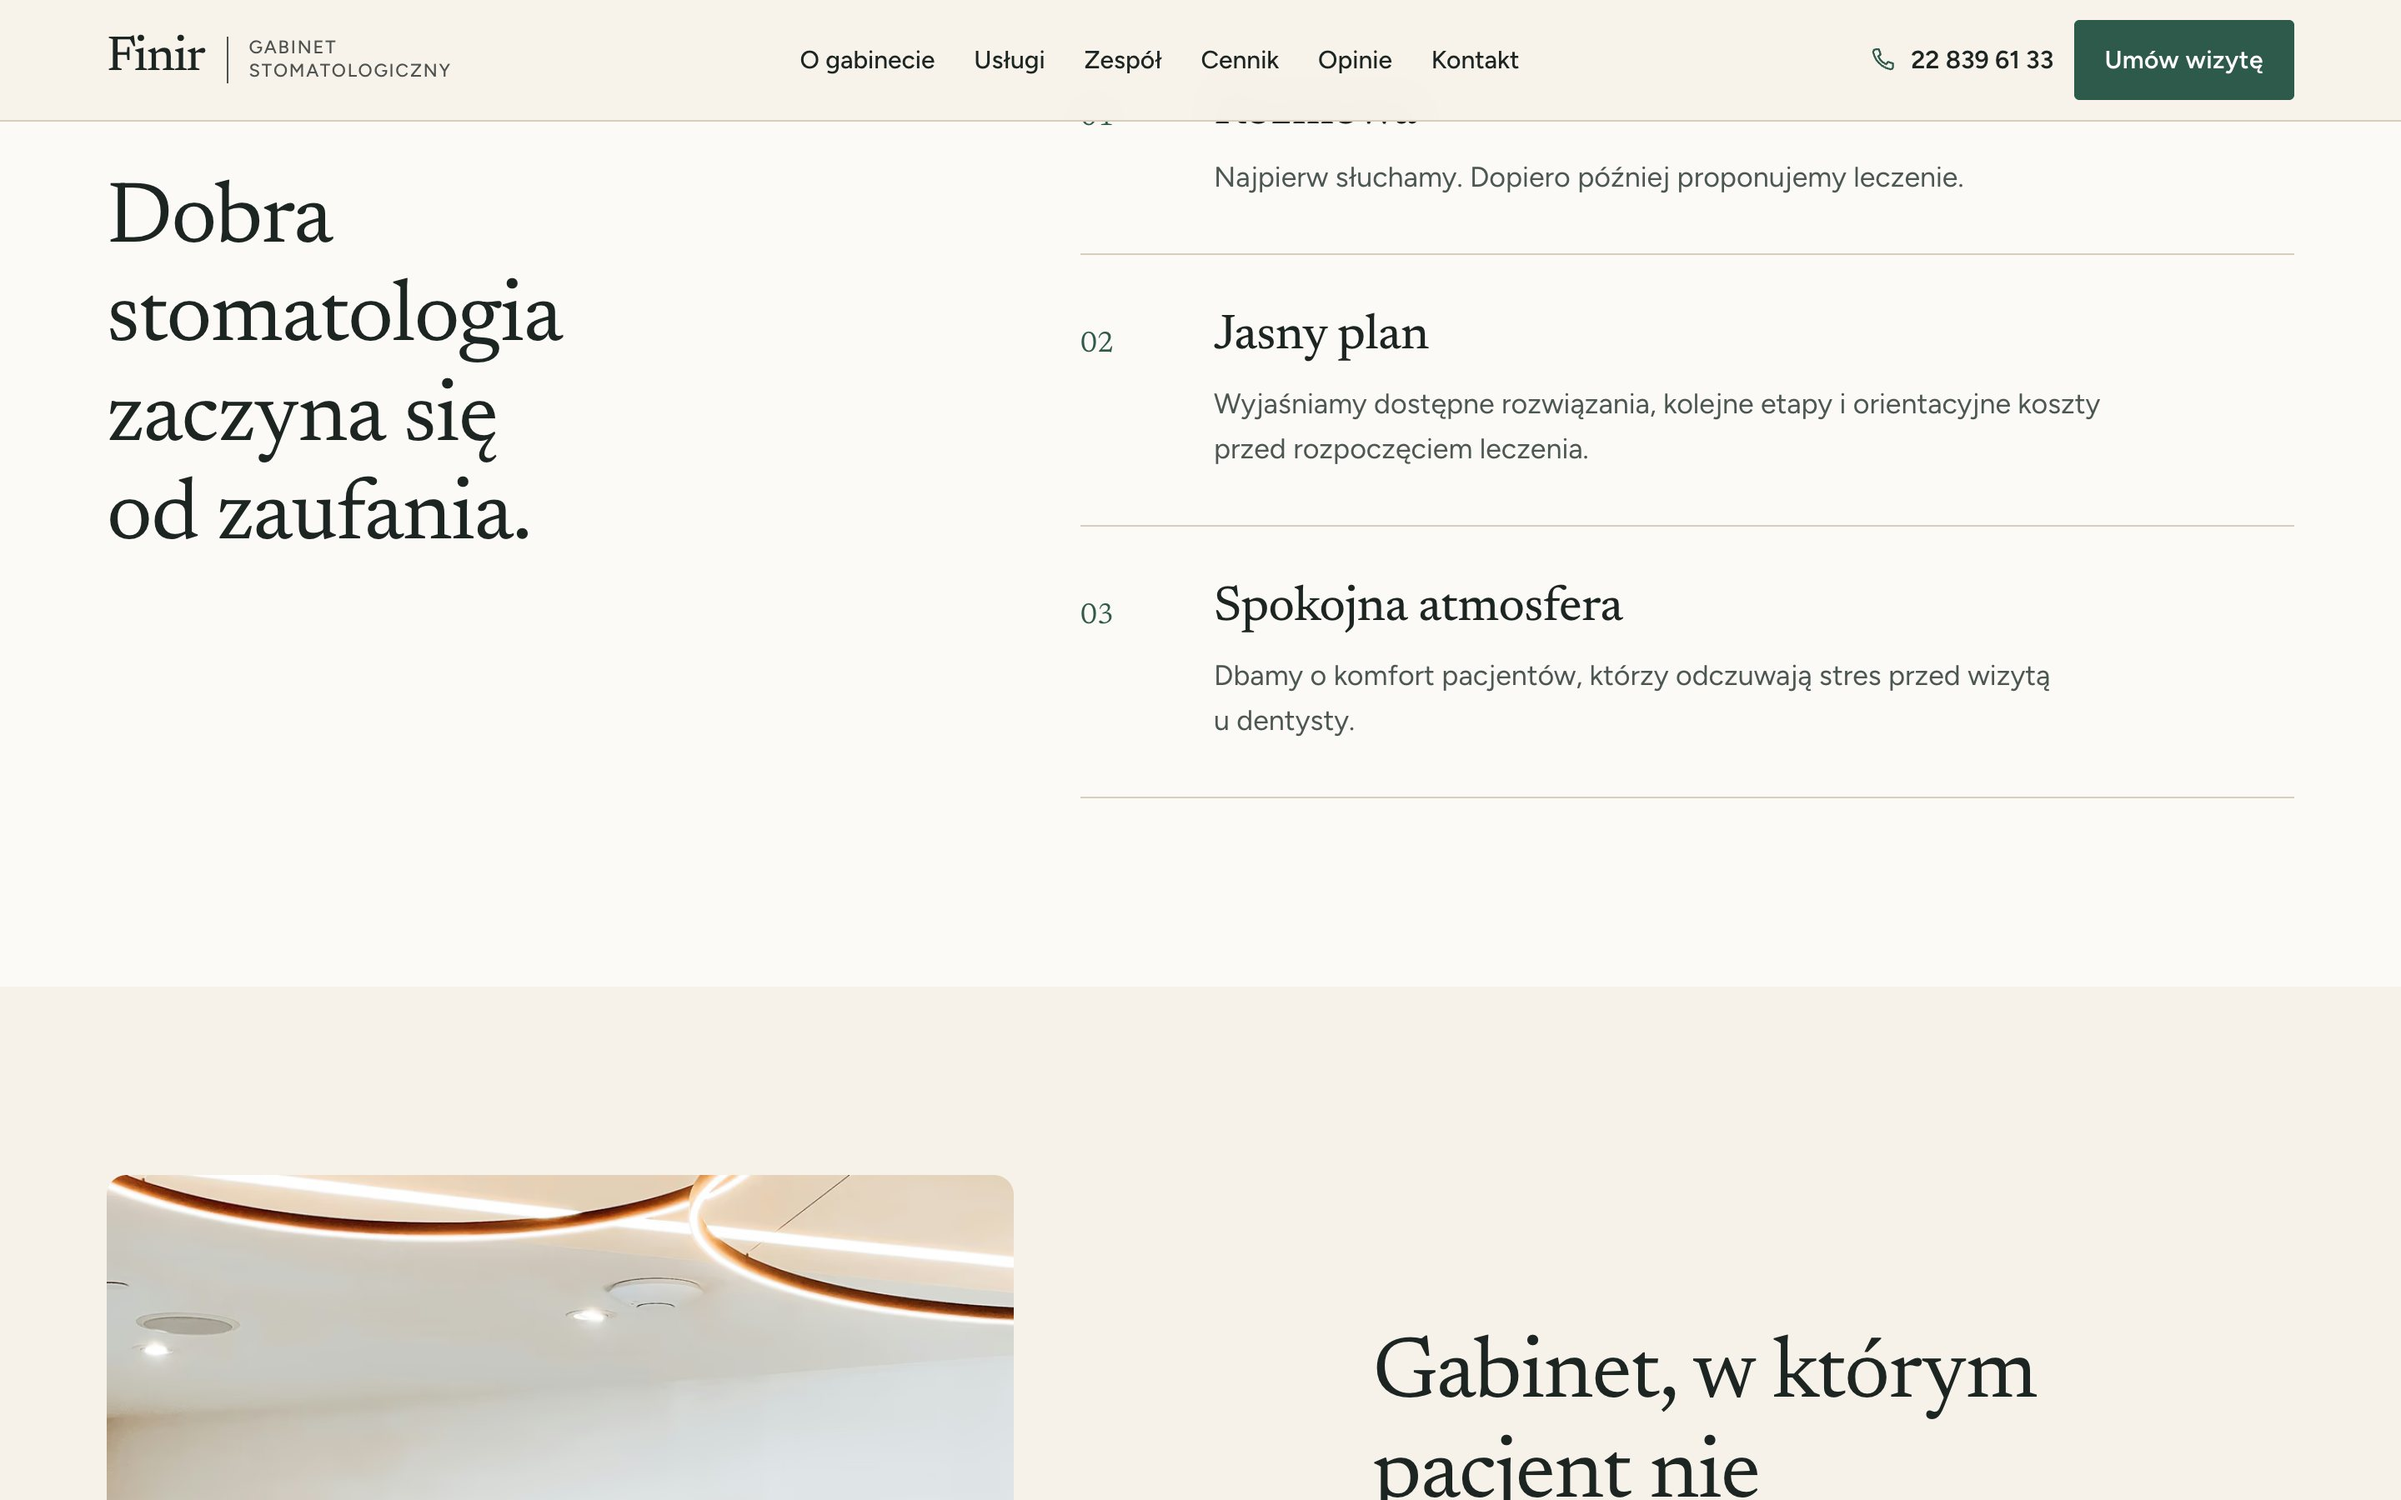
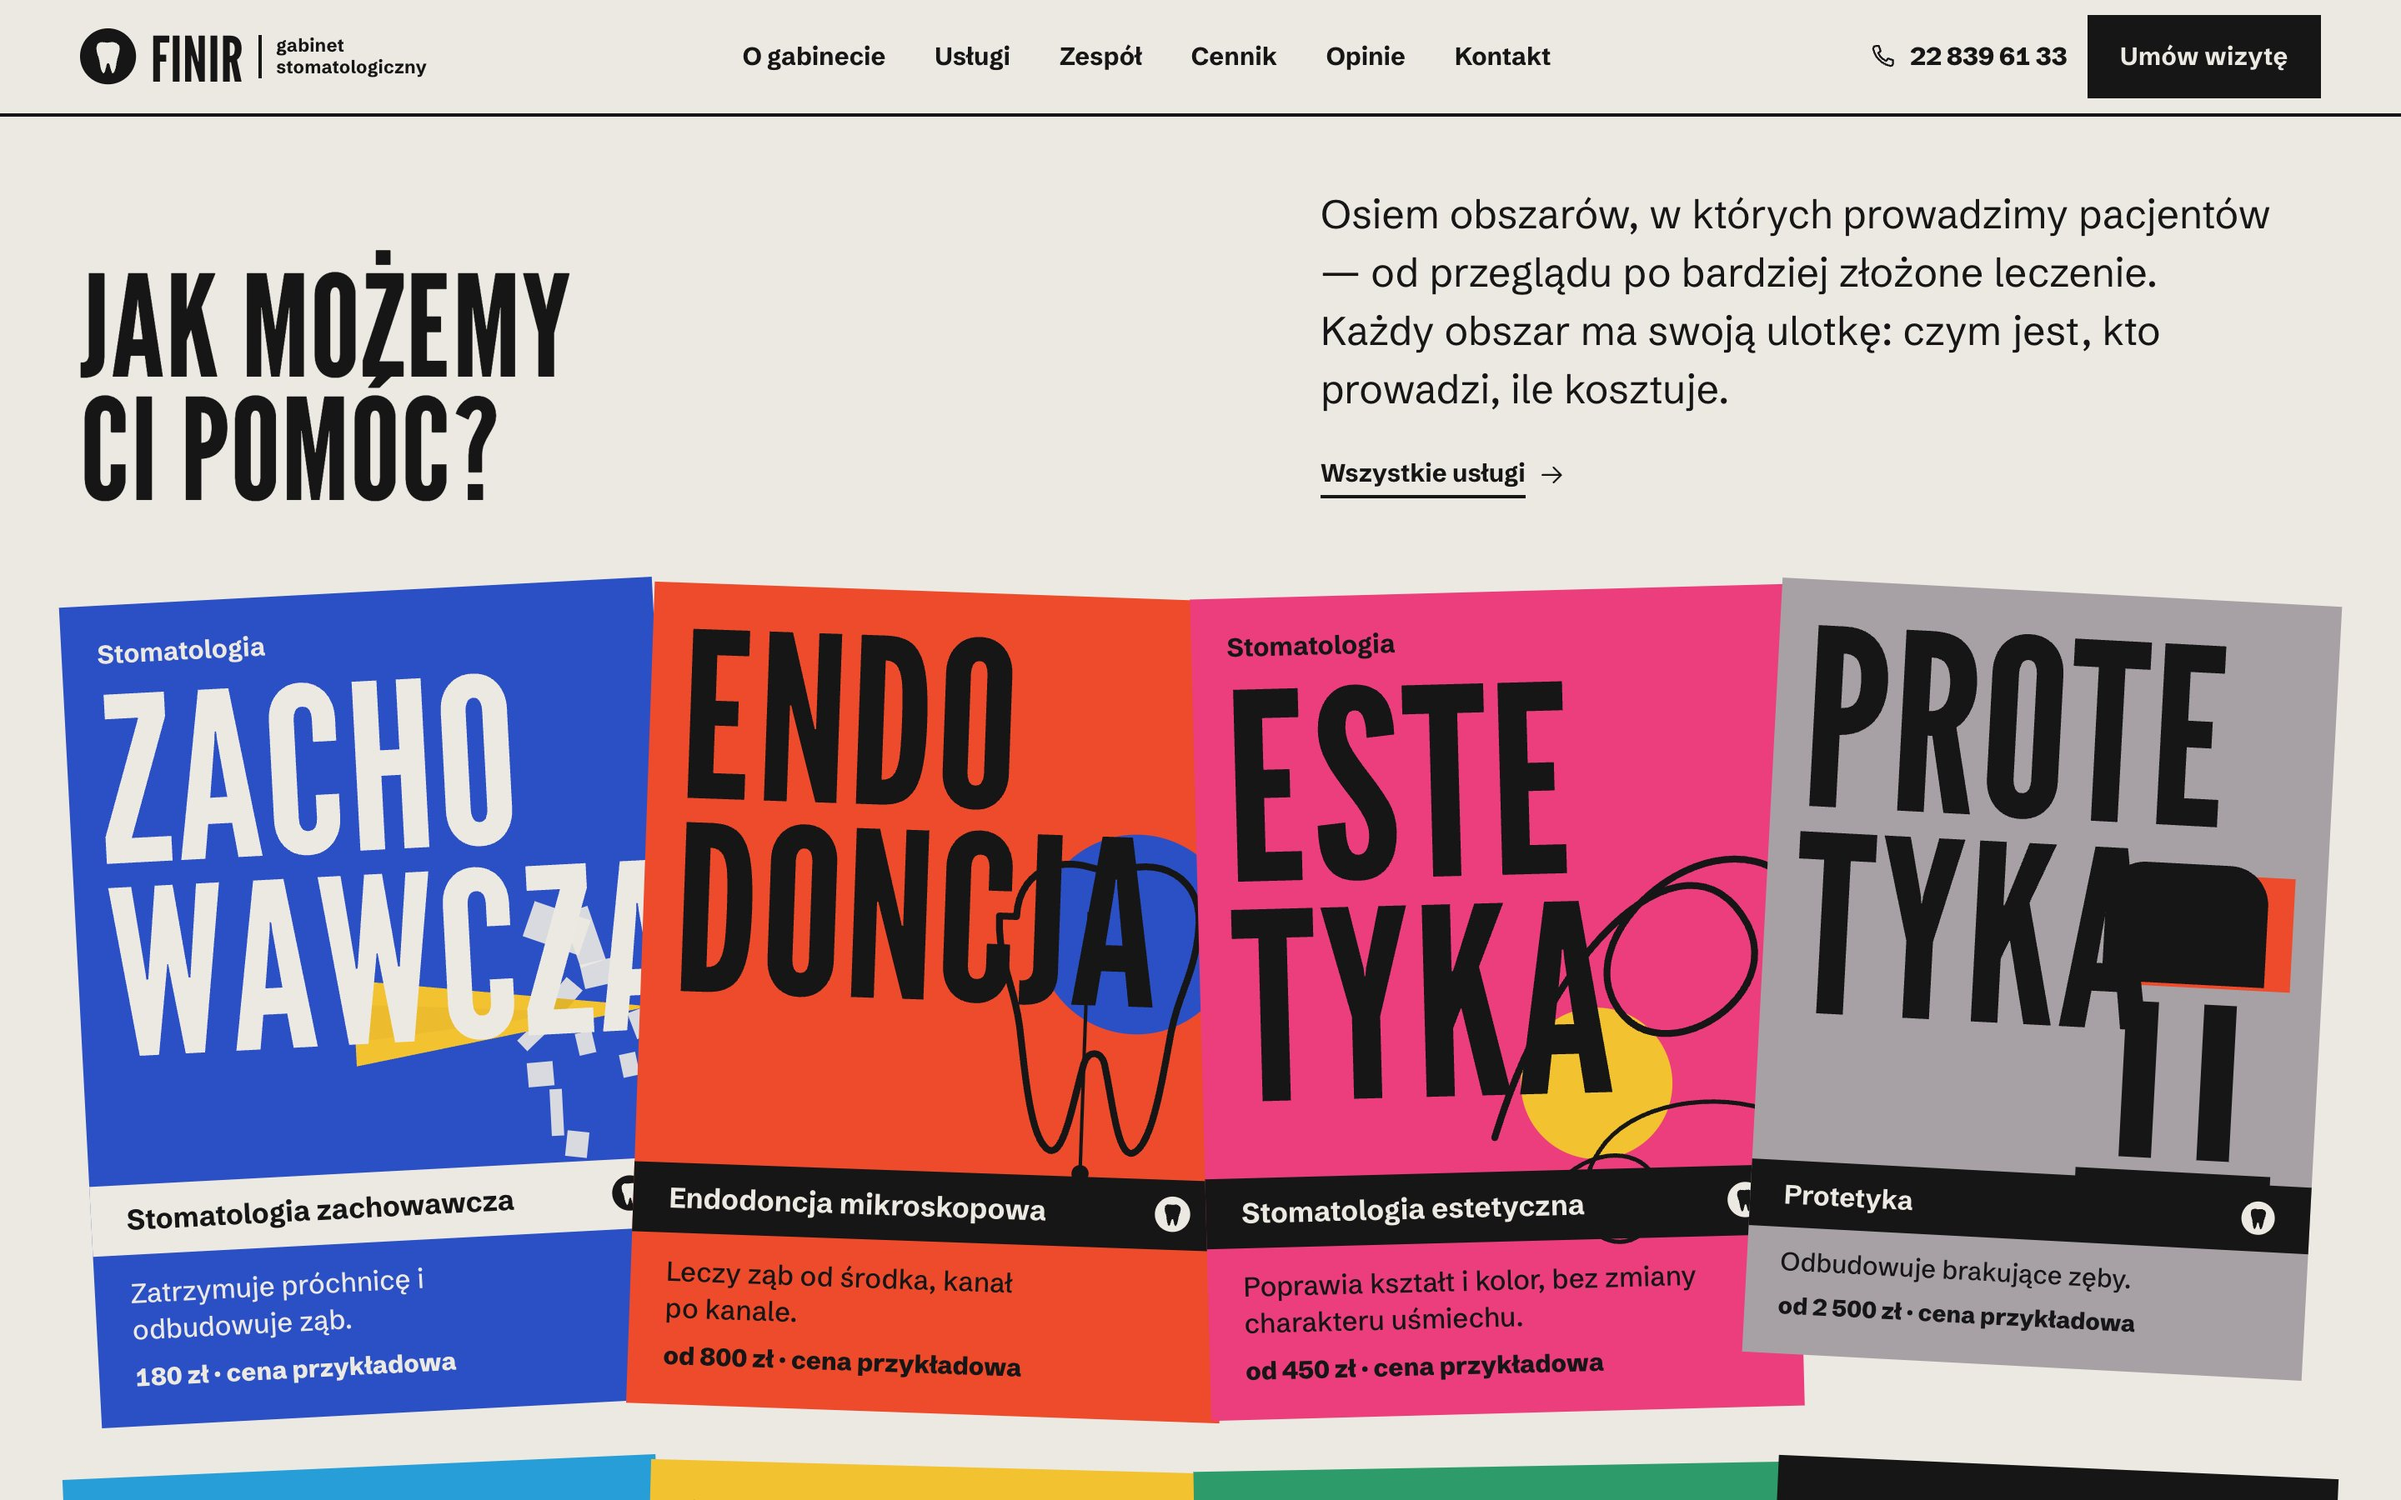
Finir в новом дизайне: польские фармлистовки 1960–80-х
Новые снимки кейса, описание и детали (EN/PL), кобальтовый акцент.

diff --git a/src/data/projects.ts b/src/data/projects.ts
@@ -50,21 +50,21 @@ export const projects: Project[] = [
     city: "Warsaw",
     year: 2026,
     status: "Prototype",
-    services: ["Art Direction", "UX/UI", "Web Design", "Development", "Responsive Design"],
+    services: ["Art Direction", "Identity", "UX/UI", "Web Design", "Development"],
     description:
-      "A small dental practice in Żoliborz that wanted to feel calm rather than clinical. The site reads like a printed patient leaflet: a quiet serif, generous margins, and every step of a first visit explained before anyone has to call.",
-    challenge: "Most dental sites in the city open with stock smiles and a booking button. Finir needed to earn trust first.",
+      "A small dental practice in Żoliborz, printed like the Polish pharmaceutical leaflets of the 1960s and 70s. Every treatment is its own leaflet in one flat ink, with a doctor, a price and a plain next step.",
+    challenge: "Dental sites in Warsaw all look like the same white clinic with a stock smile. Finir needed a voice no neighbour could copy.",
     approach:
-      "We led with the conversation instead of the treatment: three plain steps, real opening hours, and a price list that stays readable on a phone.",
+      "We borrowed the visual language of the leaflets Polish drug makers once sent to every local clinic: flat colour fields, tall condensed names broken by syllable and a single black band.",
     details: [
-      { label: "Typography", text: "A light editorial serif for headlines, set large and slightly italic for the one sentence that matters." },
-      { label: "Palette", text: "Bone paper, a deep pine green for actions and nothing else." },
-      { label: "Interaction", text: "A booking form that says plainly what happens after you press send." },
+      { label: "Typography", text: "League Gothic caps stacked by syllable, as on a 1970s leaflet, over a plain grotesk for everything a patient reads." },
+      { label: "Palette", text: "Grey offset paper and seven flat inks, one per treatment, printed over each other like a two-colour run." },
+      { label: "Interaction", text: "Eight leaflets are dealt out of a stack, and the next free slots on the first screen open a booking form that is already filled in." },
     ],
     ...shots("finir"),
-    coverPosition: "50% 0%",
-    accent: "#2f4a3f",
-    accentInk: "#f3efe6",
+    coverPosition: "0% 0%",
+    accent: "#2b4fc4",
+    accentInk: "#ece9e2",
     cardRotation: -2.4,
     cardDrop: 0,
     cardScale: 1,

diff --git a/src/data/projects.pl.ts b/src/data/projects.pl.ts
@@ -15,14 +15,14 @@ export const polishProjects: Record<string, PolishCopy> = {
     category: "Gabinet stomatologiczny",
     city: "Warszawa",
     description:
-      "Mały gabinet na Żoliborzu, który chciał być spokojny, a nie kliniczny. Strona czyta się jak drukowana ulotka dla pacjenta: cichy szeryf, szerokie marginesy i każdy krok pierwszej wizyty wyjaśniony, zanim ktokolwiek musi zadzwonić.",
-    challenge: "Większość stron dentystów w mieście zaczyna się od zdjęcia uśmiechu ze stocku i przycisku rezerwacji. Finir musiał najpierw zdobyć zaufanie.",
+      "Mały gabinet na Żoliborzu, wydrukowany jak polskie ulotki farmaceutyczne z lat 60. i 70. Każdy zabieg to osobna ulotka w jednej płaskiej farbie, z lekarzem, ceną i prostym następnym krokiem.",
+    challenge: "Strony dentystów w Warszawie wyglądają jak ten sam biały gabinet z uśmiechem ze stocku. Finir potrzebował głosu, którego nie skopiuje sąsiad.",
     approach:
-      "Zaczęliśmy od rozmowy, a nie od zabiegu: trzy proste kroki, prawdziwe godziny otwarcia i cennik, który da się przeczytać na telefonie.",
+      "Sięgnęliśmy po język ulotek, które polskie zakłady farmaceutyczne rozsyłały do rejonowych przychodni: płaskie plamy koloru, wysokie wąskie nazwy dzielone na sylaby i jeden czarny pas.",
     details: [
-      "Lekki, redakcyjny szeryf w nagłówkach, duży i lekko pochylony w jedynym zdaniu, które naprawdę się liczy.",
-      "Kolor kości, głęboka zieleń sosny dla akcji i nic więcej.",
-      "Formularz rezerwacji, który mówi wprost, co się stanie po wysłaniu.",
+      "Wersaliki League Gothic dzielone na sylaby, jak na ulotce z lat 70., i prosty grotesk do wszystkiego, co pacjent czyta.",
+      "Szary papier offsetowy i siedem płaskich farb, po jednej na zabieg, nadrukowanych na siebie jak w druku dwukolorowym.",
+      "Osiem ulotek rozkłada się ze stosu, a najbliższe wolne terminy z pierwszego ekranu otwierają już wypełniony formularz zapisu.",
     ],
   },
   halong: {
